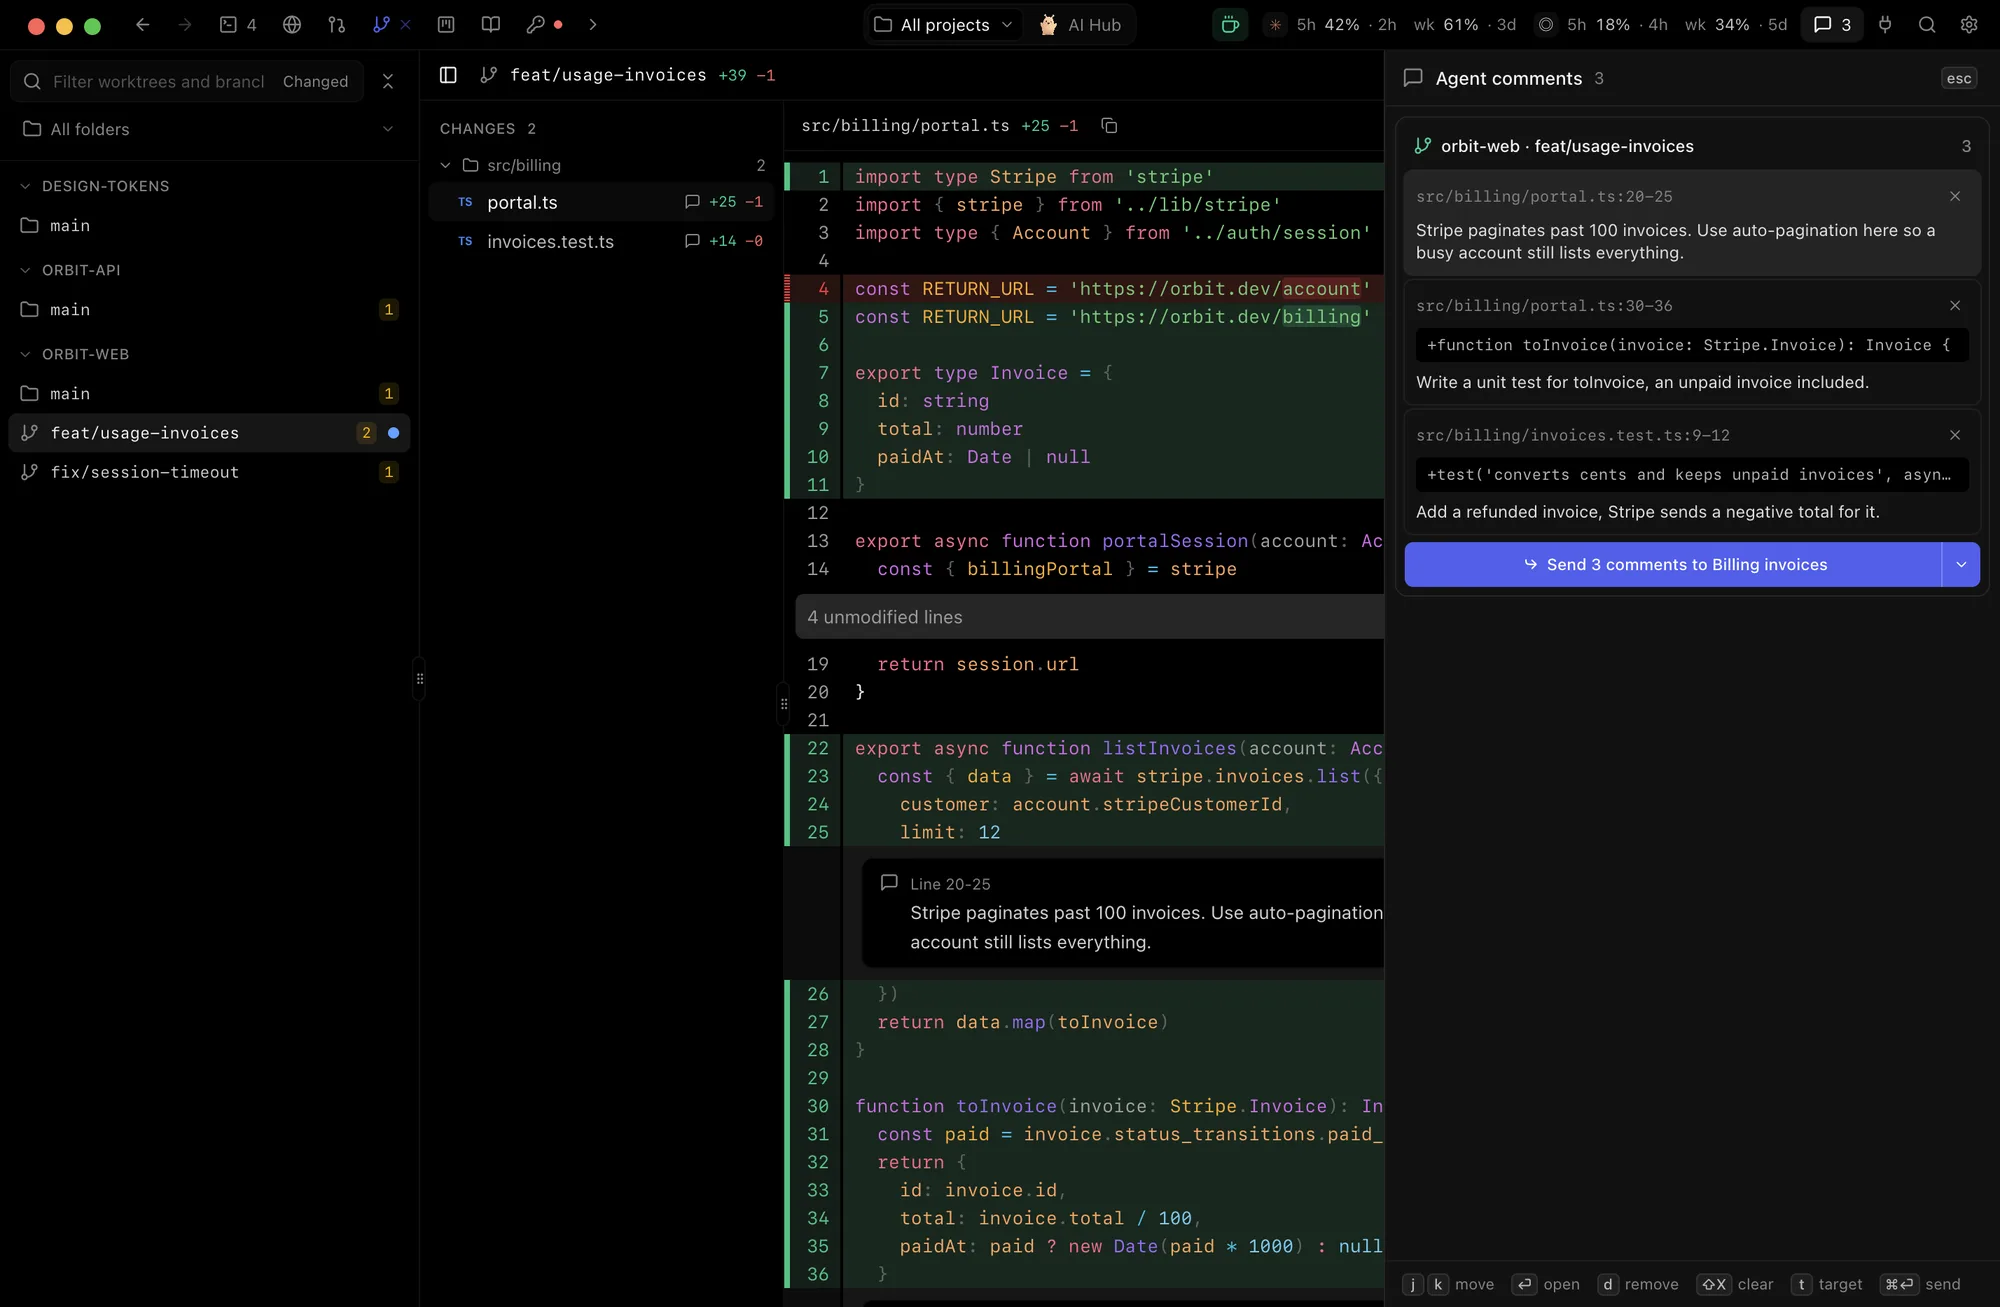
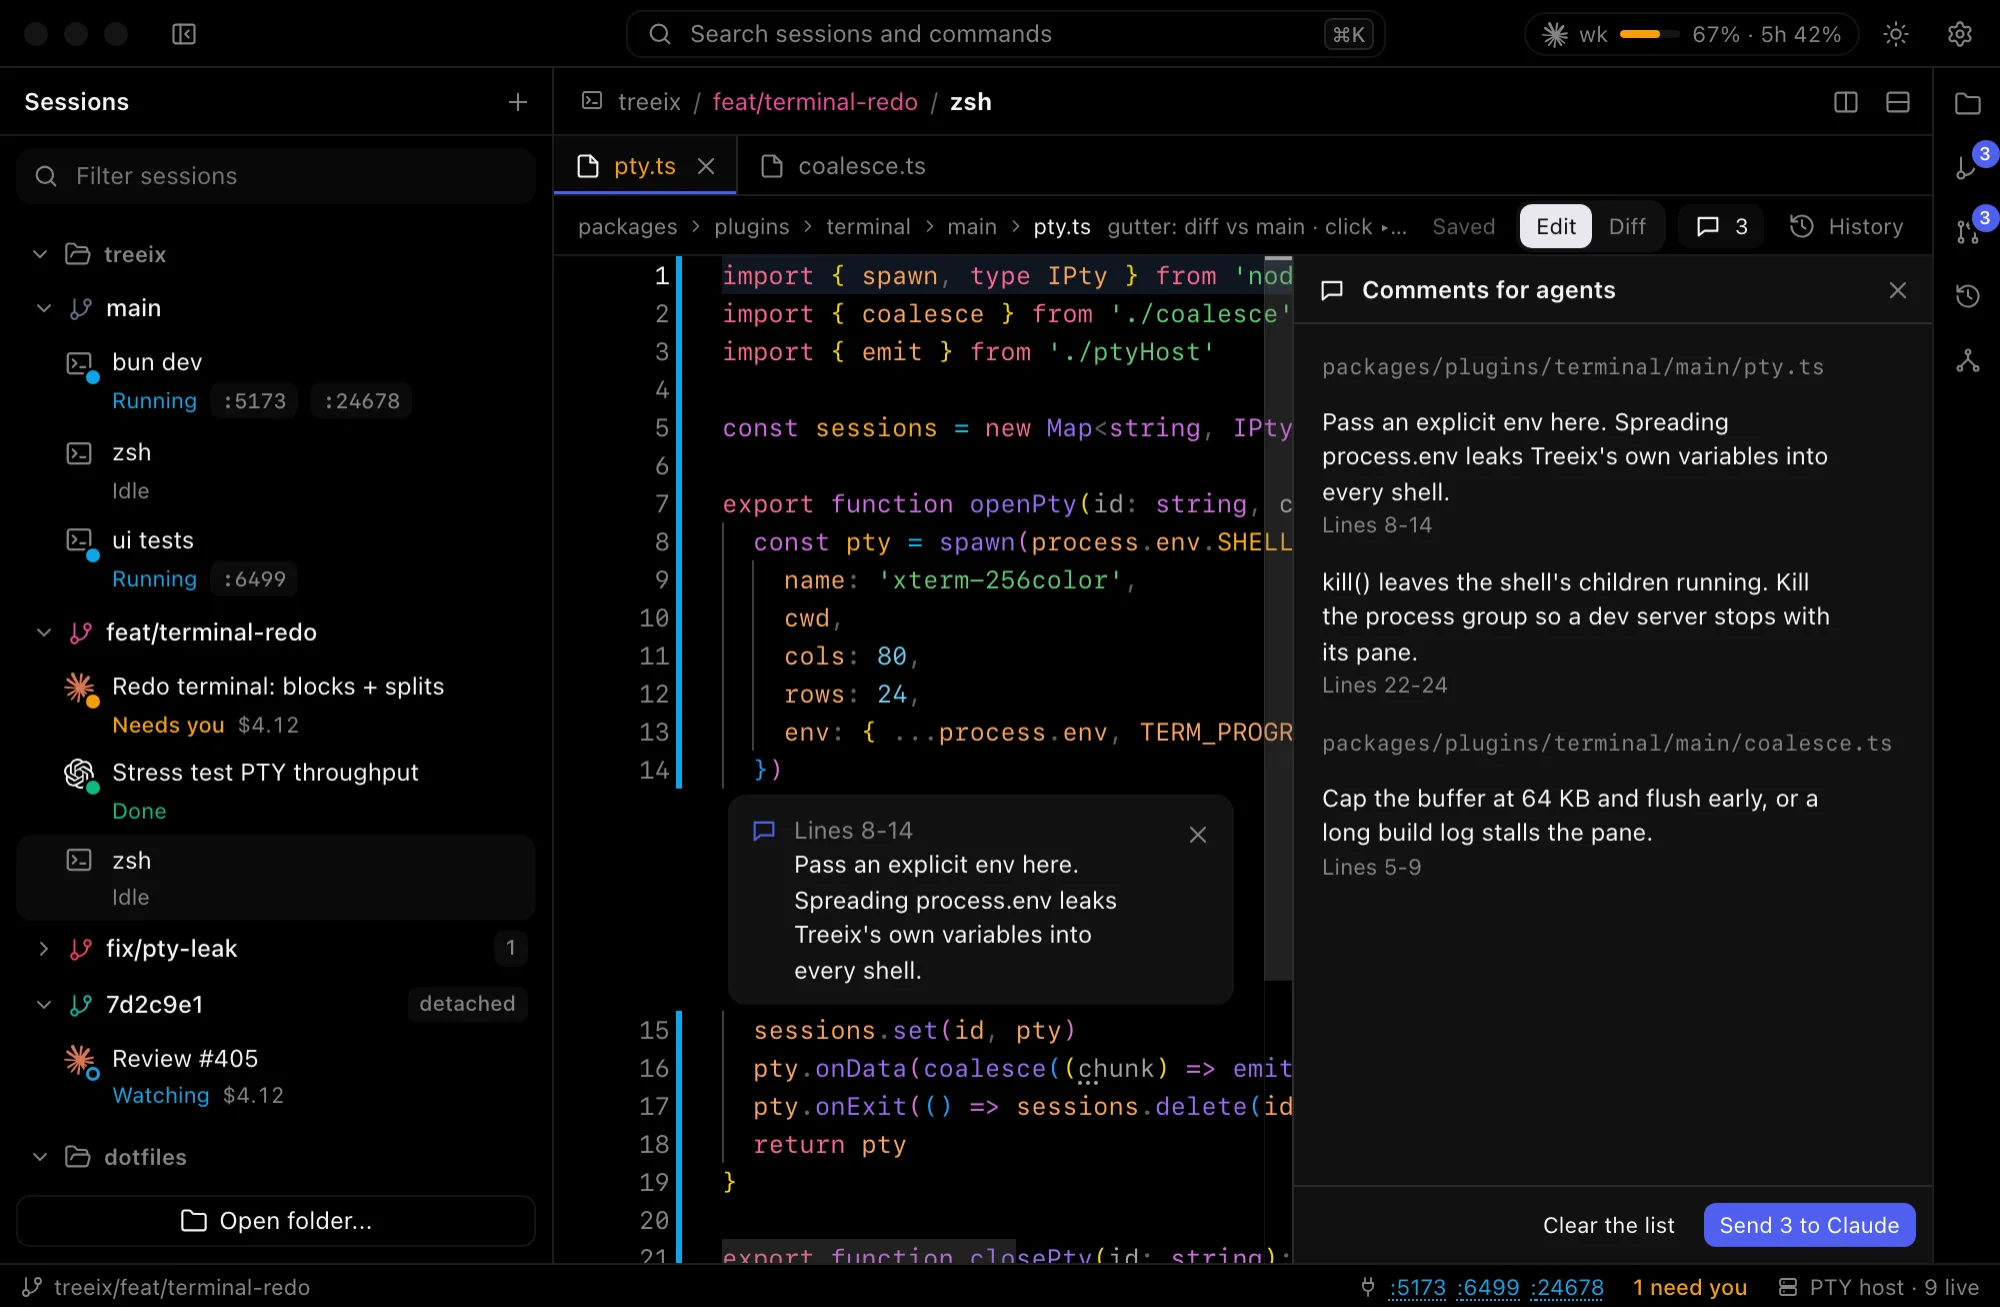
docs(landing): new dark screenshots, the phone page, routine pull requests and the roadmap

diff --git a/apps/landing/index.html b/apps/landing/index.html
@@ -16,7 +16,7 @@
   <meta name="twitter:title" content="Treeix - your AI workspace" />
   <meta name="twitter:description" content="Your AI workspace. Everything you use daily, in one app." />
   <meta name="twitter:image" content="https://treeix.dyvertex.com/assets/og.png" />
-  <script type="application/ld+json">{"@context": "https://schema.org", "@type": "SoftwareApplication", "name": "Treeix", "applicationCategory": "DeveloperApplication", "operatingSystem": "macOS 13.3 or later (Apple silicon and Intel), Linux (x86_64 AppImage)", "description": "Treeix is a free, open source app for Mac and Linux. It puts every git worktree in one sidebar, shows what each Claude Code or Codex agent changed, and sends your line comments back to the agent session as its next prompt. A background daemon keeps shells and agent sessions running after you quit. GitHub and GitLab pull requests, Jira and Notion tickets, a browser pane, routines and an MCP server sit in the same window.", "url": "https://treeix.dyvertex.com", "downloadUrl": "https://treeix.dyvertex.com/download", "image": "https://treeix.dyvertex.com/assets/og.png", "screenshot": "https://treeix.dyvertex.com/assets/hero.webp", "license": "https://www.apache.org/licenses/LICENSE-2.0", "isAccessibleForFree": true, "offers": {"@type": "Offer", "price": "0", "priceCurrency": "USD"}, "codeRepository": "https://github.com/zaxovaiko/treeix", "sameAs": ["https://github.com/zaxovaiko/treeix"], "author": {"@type": "Organization", "name": "Dyvertex", "url": "https://dyvertex.com"}}</script>
+  <script type="application/ld+json">{"@context": "https://schema.org", "@type": "SoftwareApplication", "name": "Treeix", "applicationCategory": "DeveloperApplication", "operatingSystem": "macOS 13.3 or later (Apple silicon and Intel), Linux (x86_64 AppImage)", "description": "Treeix is a free, open source app for Mac and Linux. It puts every git worktree in one sidebar, shows what each Claude Code or Codex agent changed, and sends your line comments back to the agent session as its next prompt. A background daemon keeps shells and agent sessions running after you quit. GitHub and GitLab pull requests, Jira and Notion tickets, a browser pane, routines that open pull requests, a phone page over Tailscale and an MCP server sit in the same window.", "url": "https://treeix.dyvertex.com", "downloadUrl": "https://treeix.dyvertex.com/download", "image": "https://treeix.dyvertex.com/assets/og.png", "screenshot": "https://treeix.dyvertex.com/assets/hero.webp", "license": "https://www.apache.org/licenses/LICENSE-2.0", "isAccessibleForFree": true, "offers": {"@type": "Offer", "price": "0", "priceCurrency": "USD"}, "codeRepository": "https://github.com/zaxovaiko/treeix", "sameAs": ["https://github.com/zaxovaiko/treeix"], "author": {"@type": "Organization", "name": "Dyvertex", "url": "https://dyvertex.com"}}</script>
   <script type="application/ld+json">{"@context": "https://schema.org", "@type": "FAQPage", "mainEntity": [{"@type": "Question", "name": "Does my code leave my machine?", "acceptedAnswer": {"@type": "Answer", "text": "Not through Treeix. It reads your repositories locally and runs the command line tools you already have: git for diffs, gh and glab for pull requests, claude and codex for sessions. There is no Treeix server. What you type into an agent goes to that agent's vendor, the same as in your own terminal."}}, {"@type": "Question", "name": "Which AI agents does it work with?", "acceptedAnswer": {"@type": "Answer", "text": "Claude Code and Codex, in a terminal pane or as a chat beside it, with a status dot for working, waiting for you and done. Any other CLI agent runs in a plain shell session."}}, {"@type": "Question", "name": "What happens when I quit Treeix?", "acceptedAnswer": {"@type": "Answer", "text": "Your shells and agent sessions keep running. A small background daemon, treeix-ptyd, owns them (a launchd agent on a Mac), so opening Treeix again reattaches each one with its scrollback. Routines run in the daemon too, so they fire with Treeix closed."}}, {"@type": "Question", "name": "Do I have to use git worktrees?", "acceptedAnswer": {"@type": "Answer", "text": "No. A plain repository works, and so does a plain folder. Worktrees are how Treeix keeps one agent per branch without touching the checkout you're working in, so it makes them easy."}}, {"@type": "Question", "name": "What do I need installed?", "acceptedAnswer": {"@type": "Answer", "text": "Git, plus whatever the features you use need: gh or glab for pull requests, claude or codex for agent sessions, acli for Jira, npx for the chat view. Notion takes a personal access token instead of a CLI. Each one is optional and its feature stays quiet without it."}}, {"@type": "Question", "name": "Which systems does it run on?", "acceptedAnswer": {"@type": "Answer", "text": "macOS 13.3 or newer, as one build for Apple silicon and Intel, signed and notarized by Apple so it opens like any other app. On Linux there is an x86_64 AppImage on GitHub releases. Dictation and meeting recording need Apple silicon. Updates arrive through the built-in updater."}}, {"@type": "Question", "name": "Is it free?", "acceptedAnswer": {"@type": "Answer", "text": "Yes. Free to download, and the source is public under Apache 2.0."}}]}</script>
   <link rel="icon" href="/assets/favicon.png" />
   <link rel="preconnect" href="https://fonts.googleapis.com" />
@@ -83,7 +83,7 @@
       </div>
 
       <figure class="hero-shot">
-        <img src="/assets/hero.webp" width="2000" height="1307" alt="Treeix showing the diff of the feat/usage-invoices worktree, with a comment being written on lines 6 to 10" />
+        <img src="/assets/hero.webp" width="2000" height="1307" alt="Treeix on the feat/terminal-redo worktree: pty.ts with diff marks in the gutter, and a note for the agent being written on lines 8 to 14" />
       </figure>
     </section>
 
@@ -176,7 +176,7 @@
               <p class="shot-meta">Recursive splits, a quick terminal on a global shortcut, and a notification when an agent stops to ask</p>
             </div>
           </div>
-          <figure><img src="/assets/terminal.webp" width="2000" height="1307" loading="lazy" alt="Sessions grouped by worktree in the sidebar, a dot on the one waiting for an answer, beside a shell" /></figure>
+          <figure><img src="/assets/terminal.webp" width="2000" height="1307" loading="lazy" alt="Sessions grouped by worktree in the sidebar, an orange dot on the Claude Code session that needs you, split beside a shell" /></figure>
         </article>
 
         <article class="shot">
@@ -184,7 +184,8 @@
             <h3>Routines run without you</h3>
             <div>
               <p>Hand an agent a prompt and a trigger: a schedule, a GitHub or Jira event such as a review request or a failed CI run, or a call to a local webhook. It runs in the repo, in a fresh worktree or in the pull request's worktree, with a turn budget and the permissions you set. The daemon fires it, so it runs with Treeix closed.</p>
-              <p class="shot-meta">Webhooks listen on 127.0.0.1 only</p>
+              <p>Pick what a run leaves behind: local commits, a draft pull request, or a push to the pull request it worked on. Treeix commits, pushes and opens the pull request itself after a clean run, and later runs add to it while it is open. Routine pull requests have their own filter in the pull requests panel.</p>
+              <p class="shot-meta">Agents never get push or pull request tools. Webhooks listen on 127.0.0.1 only</p>
             </div>
           </div>
         </article>
@@ -236,7 +237,7 @@
               <p class="shot-meta">Switch it off in Settings and it does no work</p>
             </div>
           </div>
-          <figure><img src="/assets/dependencies.webp" width="2000" height="1307" loading="lazy" alt="A monorepo's packages and the imports between them drawn as a graph, left to right" /></figure>
+          <figure><img src="/assets/dependencies.webp" width="2000" height="1307" loading="lazy" alt="A monorepo's packages and their imports drawn as a graph, with an unresolved import marked in red" /></figure>
         </article>
 
         <article class="shot">
@@ -247,7 +248,7 @@
               <p class="shot-meta">Built on the system WebView instead of Chromium. Agent control has its own switch in Settings.</p>
             </div>
           </div>
-          <figure><img src="/assets/browser.webp" width="2000" height="1307" loading="lazy" alt="A local app open in the browser pane" /></figure>
+          <figure><img src="/assets/browser.webp" width="2000" height="1307" loading="lazy" alt="A local odds board app in the browser pane beside the bun dev terminal, its console showing a TypeError" /></figure>
         </article>
 
         <dl class="features">
@@ -307,6 +308,11 @@
             <dd>Claude and Codex as a chat next to the terminal, kept across restarts.</dd></div>
           </div>
           <div>
+            <svg viewBox="0 0 24 24" aria-hidden="true"><path d="M8 2h8a2 2 0 0 1 2 2v16a2 2 0 0 1-2 2H8a2 2 0 0 1-2-2V4a2 2 0 0 1 2-2ZM11 18h2"/></svg>
+            <div class="feature-copy"><dt>Your phone</dt>
+            <dd>A page on your own Tailscale network: answer an agent that needs you, type into a terminal, reply in a chat, run a routine and open its pull request.</dd></div>
+          </div>
+          <div>
             <svg viewBox="0 0 24 24" aria-hidden="true"><path d="M4 6h16M4 12h16M4 18h10M18 16v4M16 18h4"/></svg>
             <div class="feature-copy"><dt>Ports</dt>
             <dd>The ports your sessions listen on, each with a button to open it in the browser pane and one to kill it.</dd></div>
@@ -353,9 +359,9 @@
           </div>
         </div>
         <ul class="open-facts">
-          <li><b>mobile app</b><span>Keep an eye on your agents, answer their questions and start a run from your phone while you're away from the Mac.</span></li>
+          <li><b>other machines</b><span>Sessions on your other computers over Tailscale and SSH, in the same sidebar.</span></li>
           <li><b>a proper ui</b><span>A design pass over every screen, so the whole app feels like one product.</span></li>
-          <li><b>history archive</b><span>Past agent sessions kept, searchable and one click from reopening.</span></li>
+          <li><b>windows</b><span>A Windows build next to the Mac and Linux ones.</span></li>
         </ul>
       </div>
     </section>

diff --git a/apps/desktop/src/ipc/mock.ts b/apps/desktop/src/ipc/mock.ts
@@ -122,9 +122,12 @@ function prompt(cwd: string): string {
   return `${color.cyan}${tilde(cwd)}${color.off}${branch ? ` ${color.magenta}${branch}${color.off}` : ''} ${color.dim}❯${color.off} `
 }
 
+/** Keeps the path's end, which names the worktree */
+const fit = (text: string, width: number) => (text.length > width ? `…${text.slice(1 - width)}` : text.padEnd(width))
+
 const banner = (kind: 'claude' | 'codex', cwd: string) =>
   kind === 'claude'
-    ? `${color.claude}╭───────────────────────────────────────╮\r\n│ ✻ ${color.off}${color.bold}Welcome to Claude Code${color.off}${color.claude}              │\r\n│   ${color.off}${color.dim}cwd: ${tilde(cwd).padEnd(32).slice(0, 32)}${color.off}${color.claude}│\r\n╰───────────────────────────────────────╯${color.off}\r\n\r\n`
+    ? `${color.claude}╭───────────────────────────────────────╮\r\n│ ✻ ${color.off}${color.bold}Welcome to Claude Code${color.off}${color.claude}              │\r\n│   ${color.off}${color.dim}cwd: ${fit(tilde(cwd), 31)}${color.off}${color.claude}│\r\n╰───────────────────────────────────────╯${color.off}\r\n\r\n`
     : `${color.bold}>_ OpenAI Codex${color.off} ${color.dim}(research preview)${color.off}\r\n${color.dim}   directory: ${tilde(cwd)}${color.off}\r\n\r\n`
 
 type DataListener = (bytes: Uint8Array, seq: number) => void

diff --git a/README.md b/README.md
@@ -28,21 +28,21 @@ AI agents write code faster than anyone can read it. The reading is the bottlene
 <table>
   <tr>
     <td width="50%" valign="top">
-      <img src="apps/landing/assets/hero.webp" alt="The diff of a worktree with a comment being written on lines 6 to 10" />
+      <img src="apps/landing/assets/hero.webp" alt="Treeix on the feat/terminal-redo worktree: pty.ts with diff marks in the gutter, and a note for the agent being written on lines 8 to 14" />
       Every worktree and its diff in one sidebar. Select lines, write a note, and the queue goes to the Claude Code or Codex session in that worktree.
     </td>
     <td width="50%" valign="top">
-      <img src="apps/landing/assets/terminal.webp" alt="Sessions grouped by worktree in the sidebar, a dot on the one waiting for an answer, and its terminal beside a shell" />
+      <img src="apps/landing/assets/terminal.webp" alt="Sessions grouped by worktree in the sidebar, an orange dot on the Claude Code session that needs you, split beside a shell" />
       A background daemon owns every shell and agent session. Quit Treeix, open it again, and they are still running, with their scrollback. A dot on Claude Code and Codex sessions says working, waiting for you or done.
     </td>
   </tr>
   <tr>
     <td width="50%" valign="top">
-      <img src="apps/landing/assets/browser.webp" alt="A local app open in the built-in browser pane" />
+      <img src="apps/landing/assets/browser.webp" alt="A local odds board app in the browser pane beside the bun dev terminal, its console showing a TypeError" />
       A browser pane sits beside the terminal, on the system WebView, with a console and network view. Agents can open pages, read them, click and type through Treeix's MCP server.
     </td>
     <td width="50%" valign="top">
-      <img src="apps/landing/assets/dependencies.webp" alt="A monorepo's packages and the imports between them drawn as a graph, left to right" />
+      <img src="apps/landing/assets/dependencies.webp" alt="A monorepo's packages and their imports drawn as a graph, with an unresolved import marked in red" />
       A module graph shows who imports what in the repo, and marks import cycles and unresolved imports.
     </td>
   </tr>
